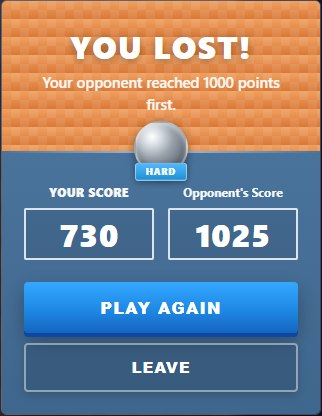
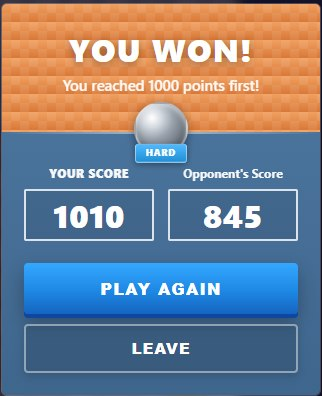
Update the victory screenshot on the landing page.
Refresh JPG from the new PNG and bust the image cache.

diff --git a/index.html b/index.html
@@ -267,7 +267,7 @@
             <div class="shot-board">
               <div class="shot-frame shot-frame--contain">
                 <img
-                  src="/images/ss-victory.jpg?v=3"
+                  src="/images/ss-victory.jpg?v=4"
                   alt="Victory screen showing You Won with scores and Play Again"
                   width="720"
                   height="1100"
